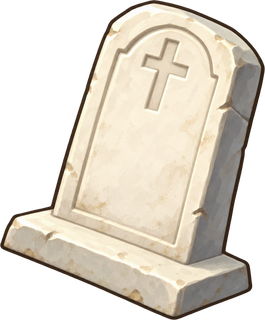
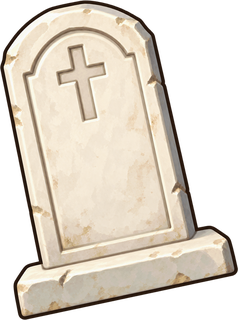
Lápide reta e um pouco menor
Claude-Session: https://claude.ai/code/session_01JJbW7wYrTo5zSc8J5WcPi9

diff --git a/src/game/tombstone.ts b/src/game/tombstone.ts
@@ -1,11 +1,12 @@
 /** A fallen fighter is replaced on the field by a tombstone (user request, 17/10/2026):
- * no avatar, HP plate or name, it simply stays where the fighter fell until the end. */
+ * no avatar, HP plate or name, it simply stays where the fighter fell until the end.
+ * The art is pre-rotated 12° so the stone stands upright; it sinks slightly into the ground. */
 const motionPreference=typeof window!=='undefined'&&window.matchMedia?window.matchMedia('(prefers-reduced-motion: reduce)'):null;
 let image:HTMLImageElement|null=null;
 function art(){if(!image&&typeof Image!=='undefined'){image=new Image();image.decoding='async';image.src='/assets/combat/tombstone.png';}return image;}
 /** Brief pause in the defeat pose before the stone drops in. */
 export const TOMBSTONE_DELAY=650;
-const DROP_MS=360,HEIGHT=82,BASE=.93;
+const DROP_MS=360,HEIGHT=66,BASE=.97;
 export function drawTombstone(c:CanvasRenderingContext2D,x:number,y:number,age:number,facing:1|-1){
  const reduced=motionPreference?.matches??false,p=reduced?1:Math.max(0,Math.min(1,age/DROP_MS));
  // Falls from above with a short settle, then rests on the ground at the fighter's feet.
